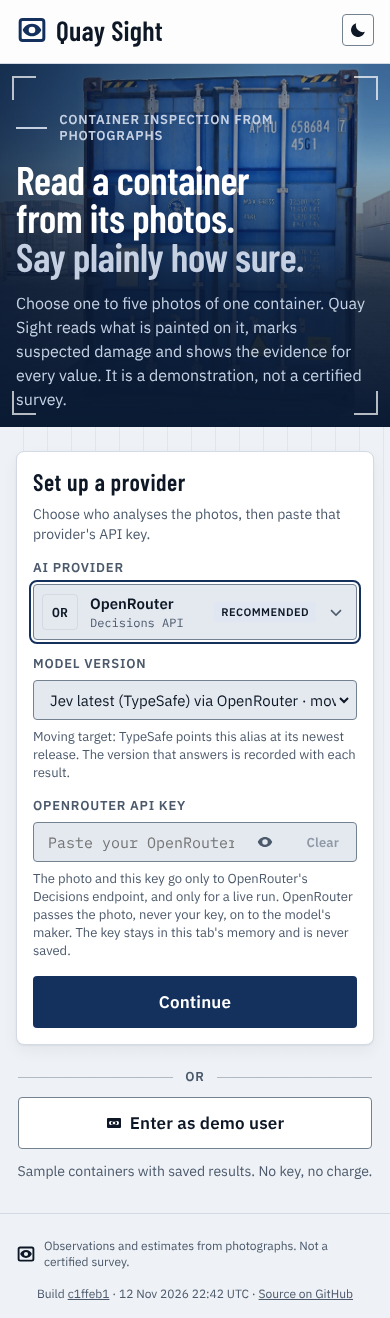
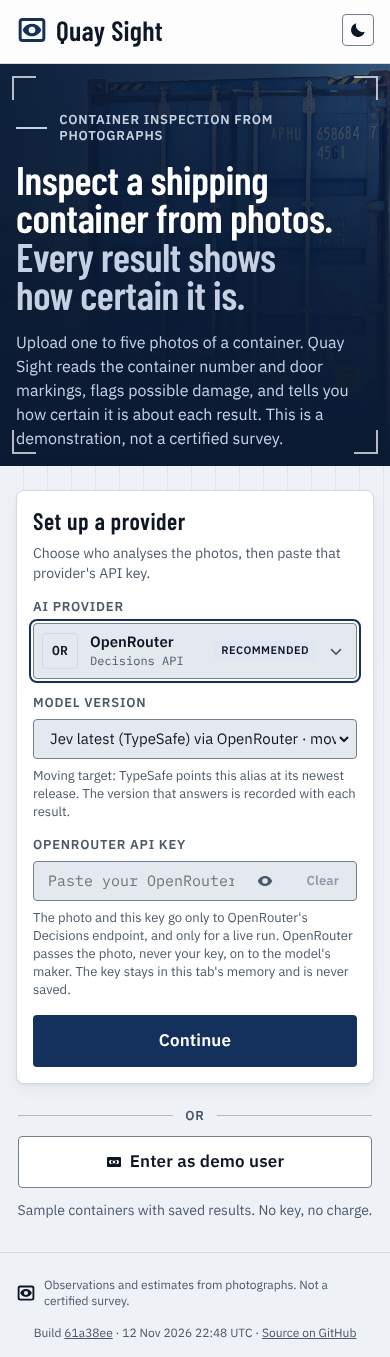
Refresh setup screenshots with the new hero wording; update handover
Claude-Session: https://claude.ai/code/session_0155BNjwCtDnG72KZ3Bg7KKj

diff --git a/HANDOVER.md b/HANDOVER.md
@@ -11,13 +11,13 @@ Branch `claude/loving-hopper-85brdw`, PR https://github.com/MrCull/QuaySight/pul
 - `design-system/README.md` and `docs/user-guide.md` updated; `docs/images/*.png` re-captured.
 - `e2e/layout.spec.ts` expects the photo strip about 320px tall (was 260px).
 
-## Last change (not yet verified in a browser)
+## Last change
 
-The owner said the hero wording "makes zero sense". The copy in `SetupHero.vue` was rewritten in plainer words and the photo shade darkened so the markings painted on the container no longer show through the headline. Still to do:
+The owner said the hero wording "makes zero sense". The copy in `SetupHero.vue` was rewritten in plainer words ("Inspect a shipping container from photos. Every result shows how certain it is.") and the photo shade darkened so the markings painted on the container no longer show through the headline. Checked in a browser at 1440px and 390px, light theme, and the three setup images in `docs/images/` re-captured. Still to do:
 
-1. Run the app (`npm run dev`), look at the first screen in light, dark and phone widths, and confirm the new wording with the owner.
-2. Re-capture `docs/images/setup-card.png`, `setup-provider-list.png` and `mobile-setup.png` (they still show the old wording).
-3. Run `npm run check` and the e2e suite once more.
+1. Confirm the new wording with the owner.
+2. Look at the first screen in the dark theme.
+3. Run the e2e suite once more (`npm run check` passed before the wording change; only text and gradient values changed since).
 
 ## Things to know
 
